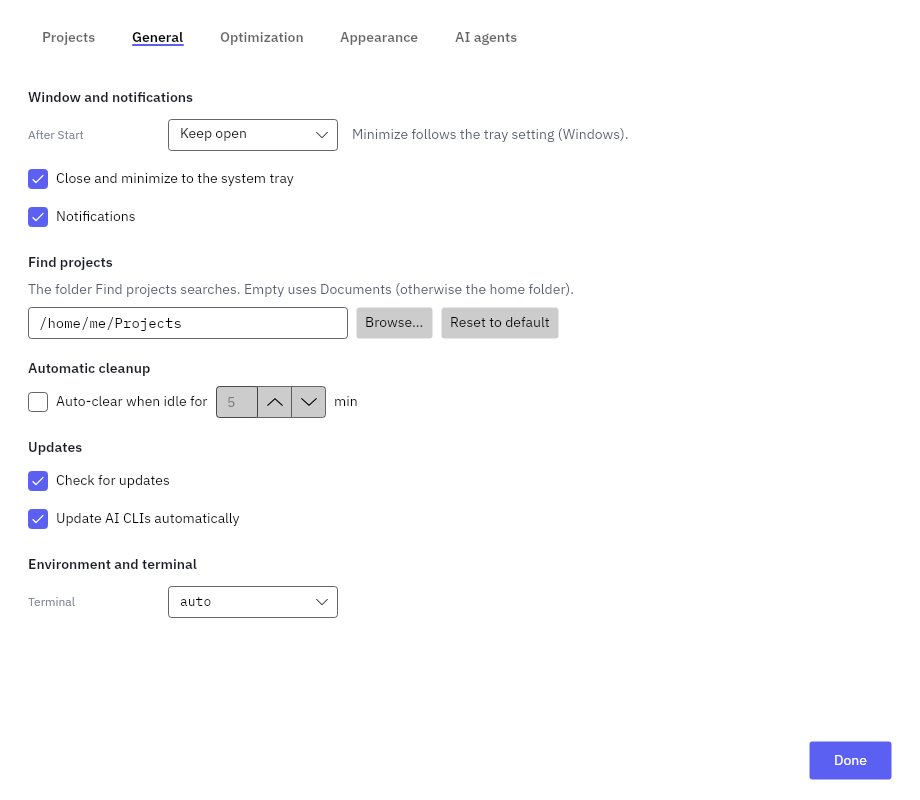
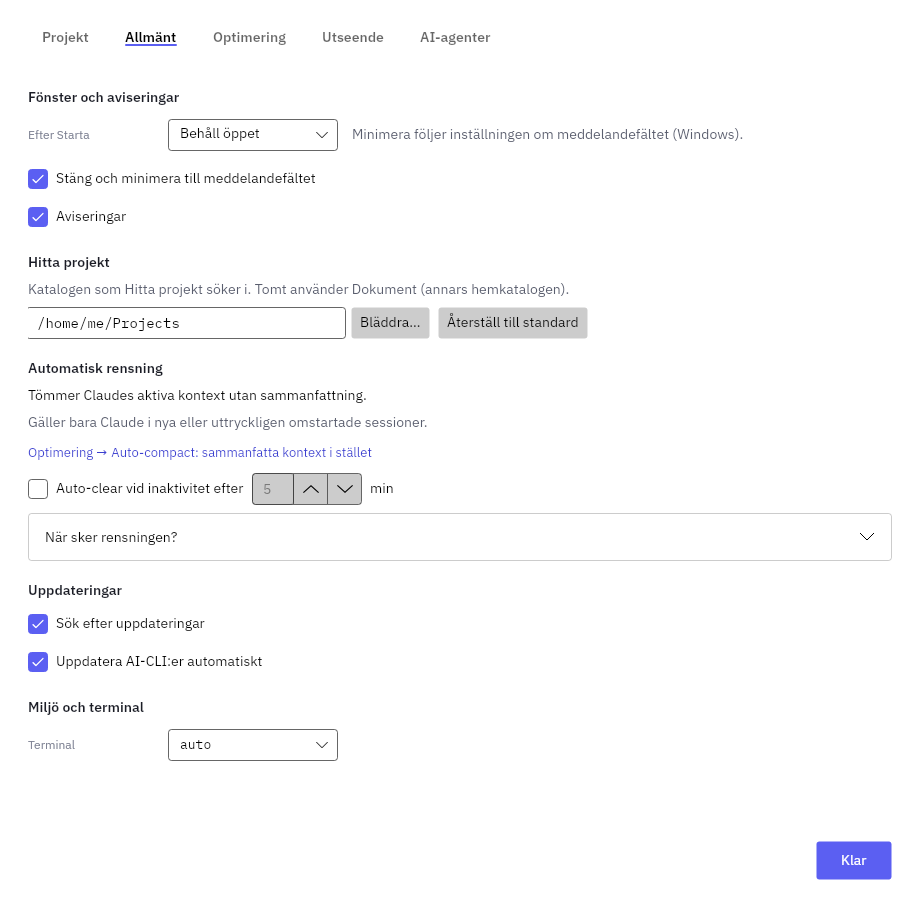
Refresh auto-clear settings preview and verification evidence (#145)

diff --git a/docs/index.html b/docs/index.html
@@ -1000,7 +1000,7 @@
       setTimeout(() => {
         if (mode === 'dark') img.src = 'screenshot-dark.png?v=20261109-139ux';
         else if (mode === 'light') img.src = 'screenshot.png?v=20261109-139ux';
-        else if (mode === 'settings') img.src = 'settings-general.png?v=20261109-137';
+        else if (mode === 'settings') img.src = 'settings-general.png?v=20261109-145';
         else if (mode === 'appearance') img.src = 'settings-appearance.png?v=20261105';
         else if (mode === 'memory') img.src = 'settings-ram.png?v=20261109-135';
         else if (mode === 'wsl') img.src = 'settings-wsl.png?v=20261109-135';

diff --git a/docs/verification/145/README.md b/docs/verification/145/README.md
@@ -1,0 +1,15 @@
+# Auto-clear explanation (#145)
+
+Tested source: `89cbdb0b978ac7e0cc6627cddee8d725d6d59c55`. The following commit changes only documentation, captures and the Pages cache key.
+
+General settings now state before the switch that auto-clear empties Claude's active context without a summary. A second line limits its scope to new or explicitly restarted Claude sessions. The Auto-compact link describes the summary-based alternative and uses the existing Optimization navigation handler. The original checkbox and minute field remain; idle guards are expandable. No algorithm, launcher, saved configuration or confirmation changed.
+
+Verification:
+
+- Release app build: success, zero warnings/errors.
+- Existing AutoClear and localization tests: 22 passed, zero failed/skipped. Two existing test-project analyzer warnings remain in unrelated CliUpdateTests.
+- Actual headless link clicks reached Optimization → Auto-compact in Off, Auto and Manual with auto-clear both off and on (six cases). Mode, enabled state and 17-minute value were unchanged both in memory and after closing/saving Settings.
+- Swedish and English, light and dark, at 920×700 and 640×400 were rendered and visually inspected. The minimum-size captures scroll the General page to auto-clear; the consequence, scope, link, switch and time field fit together without horizontal clipping. Representative captures: [Swedish/light](general-sv-light-640x400.png), [English/dark](general-en-dark-640x400.png).
+- The refreshed [General preview](../../settings-general.png) shows the full Linux page at 920×900; the Pages preview cache key is `20261109-145`. The Projects screenshot is unchanged because this issue changes only General.
+
+Captures use an invented Atlas project and an explicit `/home/me/Projects` search root. Headless windows never appear on the desktop. Every capture and route-check process exited; no task processes or locks remain. Final shared full-suite and native Windows checks belong to integration.
